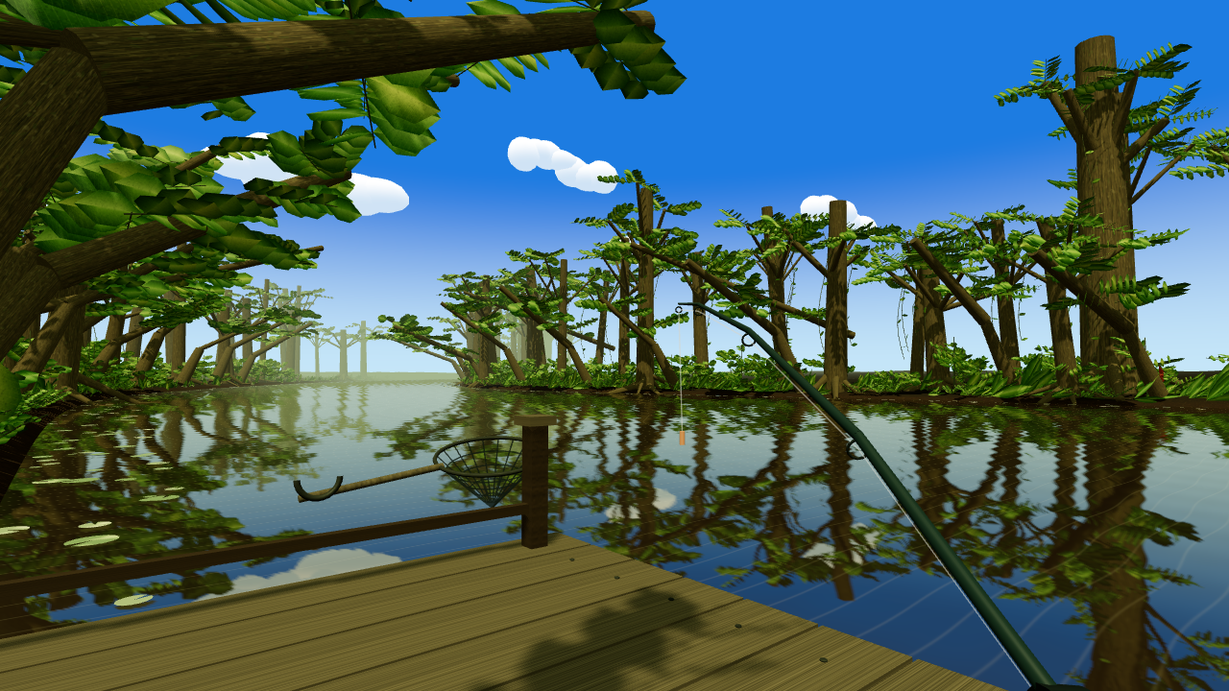
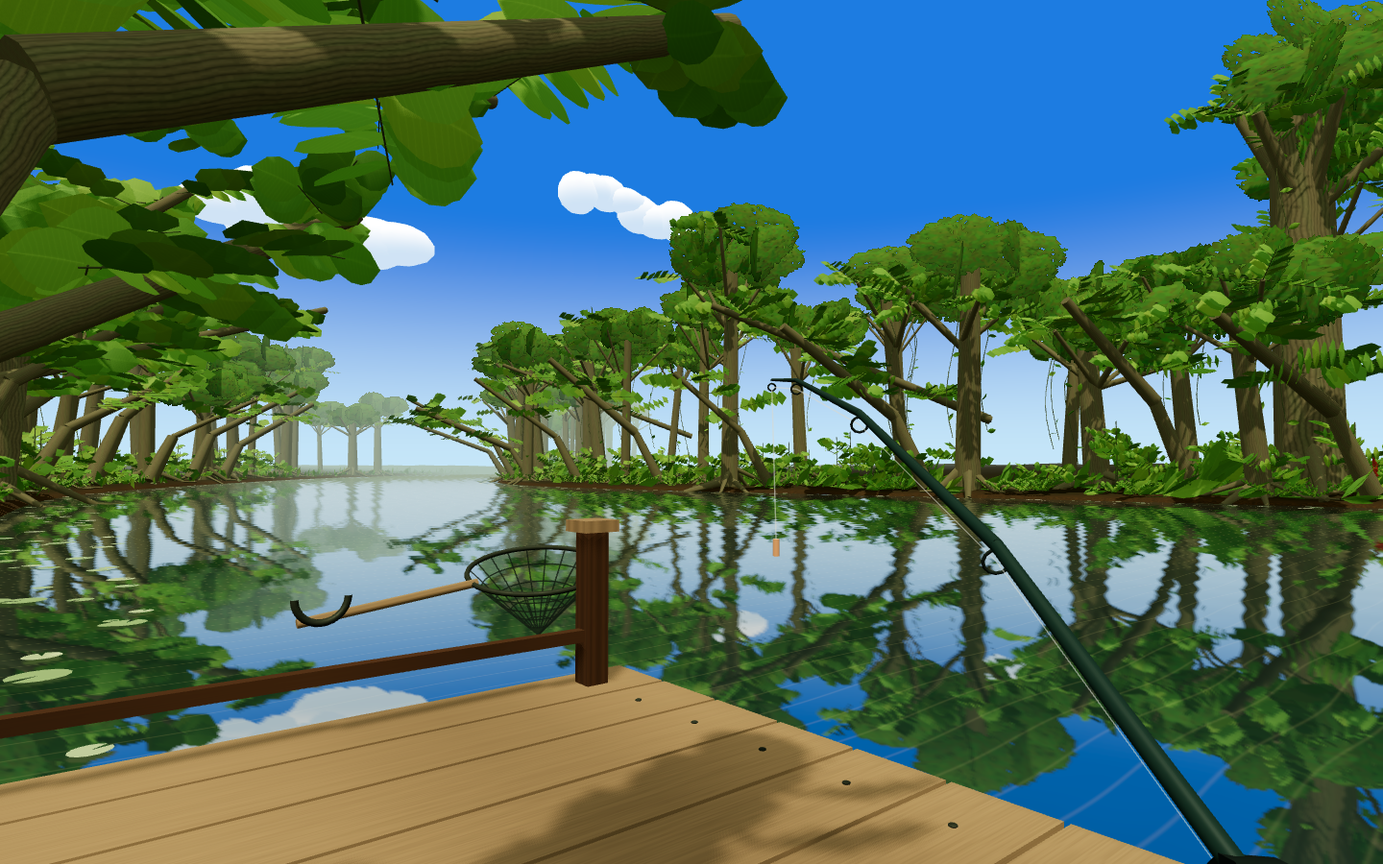
Add Amazon high-quality pilot and persistent desktop frame caps

diff --git a/amazon-scene.js b/amazon-scene.js
@@ -1,10 +1,11 @@
+import {createAmazonQuality} from './amazon-quality.js';
 import * as THREE from './vendor/three.module.js';
 import {AMAZON_CONFLUENCE,riverBank,riverCenter,riverBankOffset,riverHalfWidth,amazonWaterMaxZ} from './maps/amazon-confluence.js';
 import {createResourceScope} from './scene-resources.js';
 
 // Real geometry at meter scale; the reference image is never used as a scene backdrop.
 export function createMap(parent,camera,renderer,config=AMAZON_CONFLUENCE,{sharedResources=new Set()}={}){
-  const root=new THREE.Group();root.name='map-'+config.id;parent.add(root);
+  const root=new THREE.Group();root.name='map-'+config.id;root.userData.stationX=config.spawn.position[0];parent.add(root);
   const previous={background:parent.background,fog:parent.fog,exposure:renderer.toneMappingExposure,auto:renderer.shadowMap.autoUpdate,dirty:renderer.shadowMap.needsUpdate};
   const targets=[];
   try{
@@ -19,7 +20,7 @@ export function createMap(parent,camera,renderer,config=AMAZON_CONFLUENCE,{share
     parent.background=background;parent.fog=fog;renderer.toneMappingExposure=config.environment.exposure;
     const hemi=new THREE.HemisphereLight('#e0edc9','#706246',2.3),sun=new THREE.DirectionalLight('#fff0ba',3.4);
     sun.position.set(-18,34,16);sun.target.position.set(0,0,0);sun.castShadow=true;sun.shadow.mapSize.set(2048,2048);
-    Object.assign(sun.shadow.camera,{left:-46,right:46,top:45,bottom:-45,near:1,far:110});sun.shadow.bias=-.00025;sun.shadow.normalBias=.035;root.add(hemi,sun,sun.target,new THREE.AmbientLight('#a1b27e',.55));
+    Object.assign(sun.shadow.camera,{left:-46,right:46,top:45,bottom:-45,near:1,far:110});sun.shadow.bias=-.00025;sun.shadow.normalBias=.035;const ambient=new THREE.AmbientLight('#a1b27e',.55);root.add(hemi,sun,sun.target,ambient);
     renderer.shadowMap.autoUpdate=false;renderer.shadowMap.needsUpdate=true;
     function texture(paint,w=512,h=512,repeat=[1,1]){
       const canvas=document.createElement('canvas');canvas.width=w;canvas.height=h;paint(canvas.getContext('2d'),w,h);
@@ -57,7 +58,7 @@ export function createMap(parent,camera,renderer,config=AMAZON_CONFLUENCE,{share
     function mesh(geo,mat,p,s,parentNode=root){const m=new THREE.Mesh(geo,mat);if(p)m.position.set(...p);if(s)m.scale.set(...s);m.castShadow=m.receiveShadow=true;parentNode.add(m);return m;}
     const cube=new THREE.BoxGeometry(1,1,1),cylinder=new THREE.CylinderGeometry(1,1,1,10),sphere=new THREE.SphereGeometry(1,10,7);
     const pools=[];
-    function pool(geo,mat,shadow=true,parentNode=root){const entries=[];const result={add(p,s,r=null,tint=null){entries.push({p,s,r,tint});},finish(){if(!entries.length)return;const inst=new THREE.InstancedMesh(geo,mat,entries.length);for(let i=0;i<entries.length;i++){const e=entries[i];dummy.position.set(...e.p);dummy.scale.set(...e.s);dummy.rotation.set(0,0,0);if(e.r?.isQuaternion)dummy.quaternion.copy(e.r);else if(e.r)dummy.rotation.set(...e.r);dummy.updateMatrix();inst.setMatrixAt(i,dummy.matrix);if(e.tint)inst.setColorAt(i,color.set(e.tint));}inst.castShadow=shadow;inst.receiveShadow=true;inst.computeBoundingSphere();parentNode.add(inst);}};pools.push(result);return result;}
+    function pool(geo,mat,shadow=true,parentNode=root){const entries=[];const result={add(p,s,r=null,tint=null){entries.push({p,s,r,tint});},finish(){if(!entries.length)return;const inst=new THREE.InstancedMesh(geo,mat,entries.length);for(let i=0;i<entries.length;i++){const e=entries[i];dummy.position.set(...e.p);dummy.scale.set(...e.s);dummy.rotation.set(0,0,0);if(e.r?.isQuaternion)dummy.quaternion.copy(e.r);else if(e.r)dummy.rotation.set(...e.r);dummy.updateMatrix();inst.setMatrixAt(i,dummy.matrix);if(e.tint)inst.setColorAt(i,color.set(e.tint));}inst.castShadow=shadow;inst.receiveShadow=true;inst.computeBoundingSphere();parentNode.add(inst);result.mesh=inst;}};pools.push(result);return result;}
     const trunks=pool(new THREE.CylinderGeometry(.68,1,1,12,3),barkMat),roots=pool(new THREE.CylinderGeometry(.48,1,1,8,2),barkMat),vines=pool(new THREE.CylinderGeometry(.7,1,1,5),standard('#4b5330'));
     function beam(target,a,b,radius,taper=1,tint=null){const from=new THREE.Vector3(...a),to=new THREE.Vector3(...b),delta=to.clone().sub(from);target.add(from.clone().add(to).multiplyScalar(.5).toArray(),[radius,delta.length(),radius*taper],new THREE.Quaternion().setFromUnitVectors(Y,delta.normalize()),tint);}
     function leafGeometry(rows=3){
@@ -193,14 +194,14 @@ export function createMap(parent,camera,renderer,config=AMAZON_CONFLUENCE,{share
     // River water reflects the actual current scene. Reflection resolution/frequency are bounded.
     const reflectionTarget=new THREE.WebGLRenderTarget(...config.quality.fine.reflection,{depthBuffer:true});targets.push(reflectionTarget);
     const reflectionCamera=new THREE.PerspectiveCamera(),reflectionMatrix=new THREE.Matrix4(),lookDirection=new THREE.Vector3(),lookTarget=new THREE.Vector3();
-    const uniforms={time:{value:0},mirrorMap:{value:reflectionTarget.texture},mirrorMatrix:{value:reflectionMatrix},sunDir:{value:sun.position.clone().normalize()}};
+    const highQuality={value:0};const uniforms={highQuality,time:{value:0},mirrorMap:{value:reflectionTarget.texture},mirrorMatrix:{value:reflectionMatrix},sunDir:{value:sun.position.clone().normalize()}};
     const waterGeo=new THREE.BufferGeometry(),wp=[],wi=[];
     for(let j=0;j<=waterSegments;j++){const z=config.water.minZ+(waterEnd-config.water.minZ)*j/waterSegments;wp.push(riverBank(z,-1,config.water),0,z,riverBank(z,1,config.water),0,z);if(j){const n=j*2;wi.push(n,n+1,n-2,n+1,n-1,n-2);}}
     waterGeo.setAttribute('position',new THREE.Float32BufferAttribute(wp,3));waterGeo.setIndex(wi);waterGeo.computeVertexNormals();
     const water=mesh(waterGeo,new THREE.ShaderMaterial({uniforms,side:THREE.DoubleSide,
       vertexShader:'varying vec3 vWorld;varying vec4 vMirror;uniform mat4 mirrorMatrix;void main(){vec4 w=modelMatrix*vec4(position,1.);vWorld=w.xyz;vMirror=mirrorMatrix*w;gl_Position=projectionMatrix*viewMatrix*w;}',
-      fragmentShader:`uniform float time;uniform sampler2D mirrorMap;uniform vec3 sunDir;varying vec3 vWorld;varying vec4 vMirror;
-      void main(){vec2 p=vWorld.xz;float t=time;vec3 eye=normalize(cameraPosition-vWorld);vec3 n=normalize(vec3((sin(p.x*5.2+p.y*.9+t*.52)+.32*cos(p.y*13.-t))* .010,1.,cos(p.y*8.-p.x*.5-t*.38)*.009));float f=.14+.68*pow(1.-max(dot(eye,n),0.),2.8);vec2 uv=vMirror.xy/vMirror.w*.5+.5+n.xz*.17;vec3 reflection=texture2D(mirrorMap,clamp(uv,.002,.998)).rgb*.5+texture2D(mirrorMap,clamp(uv+vec2(.0015,.001),.002,.998)).rgb*.25+texture2D(mirrorMap,clamp(uv-vec2(.0015,.001),.002,.998)).rgb*.25;vec3 c=mix(vec3(.047,.028,.009),reflection*vec3(.81,.83,.56),f);float fleck=pow(max(dot(reflect(-sunDir,n),eye),0.),180.);c+=vec3(.84,.68,.30)*fleck*.65;float thread=pow(max(0.,sin(p.y*17.+sin(p.x*2.)*.7-t*.52)),35.);c+=vec3(.025,.023,.009)*thread;float haze=smoothstep(45.,160.,distance(cameraPosition,vWorld));c=mix(c,vec3(.24,.30,.17),haze*.6);gl_FragColor=vec4(c,1.);
+      fragmentShader:`uniform float highQuality;uniform float time;uniform sampler2D mirrorMap;uniform vec3 sunDir;varying vec3 vWorld;varying vec4 vMirror;
+      void main(){vec2 p=vWorld.xz;float t=time;vec3 eye=normalize(cameraPosition-vWorld);vec3 n=normalize(vec3((sin(p.x*5.2+p.y*.9+t*.52)+.32*cos(p.y*13.-t))* .010,1.,cos(p.y*8.-p.x*.5-t*.38)*.009));n=normalize(mix(n,vec3(0.,1.,0.),highQuality*.35));float f=mix(.14,.22,highQuality)+.68*pow(1.-max(dot(eye,n),0.),2.8);vec2 uv=vMirror.xy/vMirror.w*.5+.5+n.xz*.17;vec3 reflection=texture2D(mirrorMap,clamp(uv,.002,.998)).rgb*.5+texture2D(mirrorMap,clamp(uv+vec2(.0015,.001),.002,.998)).rgb*.25+texture2D(mirrorMap,clamp(uv-vec2(.0015,.001),.002,.998)).rgb*.25;vec3 c=mix(mix(vec3(.047,.028,.009),vec3(.025,.055,.042),highQuality),reflection*mix(vec3(.81,.83,.56),vec3(.91,.98,.95),highQuality),f);float fleck=pow(max(dot(reflect(-sunDir,n),eye),0.),180.);c+=vec3(.84,.68,.30)*fleck*.65;float thread=pow(max(0.,sin(p.y*17.+sin(p.x*2.)*.7-t*.52)),35.);c+=vec3(.025,.023,.009)*thread;float haze=smoothstep(45.,160.,distance(cameraPosition,vWorld));c=mix(c,vec3(.24,.30,.17),haze*.6);gl_FragColor=vec4(c,1.);
       #include <tonemapping_fragment>
       #include <colorspace_fragment>
       }`}),[0,config.water.level,0]);water.castShadow=water.receiveShadow=false;
@@ -220,10 +221,11 @@ export function createMap(parent,camera,renderer,config=AMAZON_CONFLUENCE,{share
       for(let i=0;i<12;i++)tree(THREE.MathUtils.lerp(config.water.basin.leftX,config.water.basin.rightX,(i+.5)/12),waterEnd+3,range(10,15),.5,true);
     }
     pools.forEach(p=>p.finish());
+    const presentation=createAmazonQuality({root,renderer,camera,treeRecords,pools:{leaves,smallLeaves,trunks,roots,vines,pebbles},barkMat,woodMat,darkWood,soil,leafMat,hemi,sun,ambient,fog,waterUniform:highQuality});presentation.setQuality(true);
     const resources=createResourceScope(root,{targets,shared:sharedResources});
     return {
       update(elapsed){if(resources.disposed)return;wind.value=elapsed;uniforms.time.value=elapsed;},
-      setQuality(fine){if(!resources.disposed)reflectionTarget.setSize(...config.quality[fine?'fine':'fast'].reflection);},
+      setQuality(fine){if(!resources.disposed){presentation.setQuality(fine);reflectionTarget.setSize(...config.quality.fine.reflection);}},
       renderReflection({frame,fine,force=false,before=()=>{},after=()=>{}}){
         if(resources.disposed||(!force&&frame%config.quality[fine?'fine':'fast'].reflectionEvery!==0))return;
         reflectionCamera.copy(camera,false);reflectionCamera.position.y=2*config.water.level-camera.position.y;camera.getWorldDirection(lookDirection);lookTarget.copy(camera.position).add(lookDirection);lookTarget.y=2*config.water.level-lookTarget.y;reflectionCamera.up.set(0,-1,0);reflectionCamera.lookAt(lookTarget);reflectionCamera.updateMatrixWorld();reflectionMatrix.multiplyMatrices(reflectionCamera.projectionMatrix,reflectionCamera.matrixWorldInverse);
@@ -231,7 +233,7 @@ export function createMap(parent,camera,renderer,config=AMAZON_CONFLUENCE,{share
         try{water.visible=false;before();renderer.setRenderTarget(reflectionTarget);renderer.render(parent,reflectionCamera);}
         finally{renderer.setRenderTarget(target);water.visible=visible;after();}
       },
-      getDiagnostics:()=>({disposed:resources.disposed,treeCount:treeRecords.length,chairs:[],objects:root.children.length,reflectionSize:[reflectionTarget.width,reflectionTarget.height],platformShift,platformBounds:{...config.water.platform},riverWidthAtSpawn:2*riverHalfWidth(config.spawn.position[2],config.water),basin:config.water.basin?{...config.water.basin,width:config.water.basin.rightX-config.water.basin.leftX}:null,waterMeshCount:1,reflectionTargetCount:targets.length,waterSegments,waterEnd,landmarks:['wood-platform','tackle-seat','wood-shelf','lantern','landing-net','buttress-roots','hanging-vines',...(config.water.basin?['right-water-basin']:[])]}),
+      getDiagnostics:()=>({disposed:resources.disposed,presentation:presentation.snapshot(),treeCount:treeRecords.length,chairs:[],objects:root.children.length,reflectionSize:[reflectionTarget.width,reflectionTarget.height],platformShift,platformBounds:{...config.water.platform},riverWidthAtSpawn:2*riverHalfWidth(config.spawn.position[2],config.water),basin:config.water.basin?{...config.water.basin,width:config.water.basin.rightX-config.water.basin.leftX}:null,waterMeshCount:1,reflectionTargetCount:targets.length,waterSegments,waterEnd,landmarks:['wood-platform','tackle-seat','wood-shelf','lantern','landing-net','buttress-roots','hanging-vines',...(config.water.basin?['right-water-basin']:[])]}),
       dispose(){if(resources.disposed)return;resources.dispose();if(parent.background===background)parent.background=previous.background;if(parent.fog===fog)parent.fog=previous.fog;renderer.toneMappingExposure=previous.exposure;renderer.shadowMap.autoUpdate=previous.auto;renderer.shadowMap.needsUpdate=previous.dirty;}
     };
   }catch(error){createResourceScope(root,{targets,shared:sharedResources}).dispose();parent.background=previous.background;parent.fog=previous.fog;renderer.toneMappingExposure=previous.exposure;renderer.shadowMap.autoUpdate=previous.auto;renderer.shadowMap.needsUpdate=previous.dirty;throw error;}

diff --git a/amazon-quality.js b/amazon-quality.js
@@ -1,0 +1,59 @@
+import * as THREE from './vendor/three.module.js';
+
+// Shared small procedural PBR textures; no network assets or gameplay RNG.
+function surfaceTexture(kind,w,h){
+ const height=new Float32Array(w*h),pixels=new Uint8Array(w*h*4),normal=new Uint8Array(w*h*4);
+ const noise=(x,y)=>{let a=Math.imul(x+31,374761393)^Math.imul(y+17,668265263);a=Math.imul(a^(a>>>13),1274126177);return ((a^(a>>>16))>>>0)/4294967295;};
+ for(let y=0;y<h;y++)for(let x=0;x<w;x++){
+  const u=x/w,v=y/h,n=noise(x,y),coarse=noise(x>>3,y>>3);let a,rgb;
+  if(kind==='leaf'){const vein=Math.exp(-Math.abs(u-.5)*100),ribs=Math.pow(Math.max(0,Math.cos(v*95+Math.abs(u-.5)*20)),12);a=.52+vein*.3+ribs*.1+n*.05;rgb=[86+a*66,119+a*66,47+a*45];}
+  else if(kind==='wood'){const grain=Math.sin(u*21+Math.sin(v*150)*.12+Math.sin(u*6)*2);a=.45+grain*.17+coarse*.17+n*.06;rgb=[99+a*59,78+a*49,53+a*36];}
+  else if(kind==='bark'){const furrow=Math.pow(Math.abs(Math.sin(u*57+Math.sin(v*19)*.9+Math.sin(v*71)*.12)),.35);a=.12+furrow*.65+coarse*.13+n*.08;const moss=Math.max(0,Math.sin(u*22+v*7))*.15;rgb=[46+a*64-moss*10,44+a*57+moss*25,29+a*42];}
+  else{a=.15+coarse*.55+n*.3;rgb=[68+a*55,64+a*39,38+a*31];}
+  const i=y*w+x,k=i*4;height[i]=a;pixels[k]=rgb[0];pixels[k+1]=rgb[1];pixels[k+2]=rgb[2];pixels[k+3]=255;
+ }
+ for(let y=0;y<h;y++)for(let x=0;x<w;x++){const i=y*w+x,k=i*4,dx=height[y*w+(x+1)%w]-height[y*w+(x+w-1)%w],dy=height[((y+1)%h)*w+x]-height[((y+h-1)%h)*w+x],l=Math.hypot(dx*1.8,dy*1.8,1);normal[k]=128-dx*1.8/l*127;normal[k+1]=128-dy*1.8/l*127;normal[k+2]=128+127/l;normal[k+3]=255;}
+ const make=(data,color)=>{const t=new THREE.DataTexture(data,w,h);t.wrapS=t.wrapT=THREE.RepeatWrapping;t.magFilter=THREE.LinearFilter;t.minFilter=THREE.LinearMipmapLinearFilter;t.generateMipmaps=true;t.colorSpace=color?THREE.SRGBColorSpace:THREE.NoColorSpace;t.needsUpdate=true;return t;};
+ return {map:make(pixels,true),normalMap:make(normal,false)};
+}
+
+export function createAmazonQuality({root,renderer,camera,pools,treeRecords,barkMat,woodMat,darkWood,soil,leafMat,hemi,sun,ambient,fog,waterUniform}){
+ const textures={bark:surfaceTexture('bark',512,512),wood:surfaceTexture('wood',512,512),ground:surfaceTexture('ground',512,512),leaf:surfaceTexture('leaf',128,256)};
+ textures.bark.map.repeat.set(2,3);textures.bark.normalMap.repeat.set(2,3);
+ const materialPairs=new Map();
+ function material(low,kind){const high=low.clone();high.onBeforeCompile=low.onBeforeCompile;high.map=textures[kind].map;high.normalMap=textures[kind].normalMap;high.bumpMap=null;high.normalScale.setScalar(kind==='leaf'?.18:.36);high.color.set(kind==='ground'?'#d5c8ae':'#ffffff');if(kind==='leaf'){high.emissiveMap=high.map;high.emissive.set('#567449');high.emissiveIntensity=.08;high.roughness=.72;}materialPairs.set(low,high);return high;}
+ material(barkMat,'bark');material(woodMat,'wood');const dark=material(darkWood,'wood');dark.color.set('#8e7860');material(soil,'ground');material(leafMat,'leaf');
+ const bindings=[];root.traverse(o=>{if(o.isMesh&&materialPairs.has(o.material))bindings.push({mesh:o,low:o.material,high:materialPairs.get(o.material)});});
+ const highRoot=new THREE.Group();highRoot.name='amazon-high-quality';root.add(highRoot);const legacy=[],chunks=[],geometryCache=new Map();
+ const station={x:root.userData.stationX,z:28};
+ function foliageGeometry(original,level){const key=original.uuid+':'+level;if(geometryCache.has(key))return geometryCache.get(key);if(level===2){const g=new THREE.BufferGeometry();g.setAttribute('position',new THREE.Float32BufferAttribute([0,0,0,-.5,.5,0,0,1,.035,.5,.5,0],3));g.setAttribute('uv',new THREE.Float32BufferAttribute([.5,1,0,.5,.5,0,1,.5],2));g.setIndex([0,1,2,0,2,3]);g.computeVertexNormals();geometryCache.set(key,g);return g;}const rows=level===0?5:3,pos=[],uv=[],indices=[];
+  for(let j=0;j<=rows;j++)for(let i=0;i<3;i++){const t=j/rows,u=i/2,x=(u-.5)*Math.pow(Math.sin(Math.PI*t),.62);pos.push(x,t,Math.sin(t*Math.PI)*.11-Math.abs(x)*.16);uv.push(u,1-t);if(i&&j){const n=j*3+i;indices.push(n,n-1,n-3,n-1,n-4,n-3);}}
+  const g=new THREE.BufferGeometry();g.setAttribute('position',new THREE.Float32BufferAttribute(pos,3));g.setAttribute('uv',new THREE.Float32BufferAttribute(uv,2));g.setIndex(indices);g.computeVertexNormals();geometryCache.set(key,g);return g;
+ }
+ const matrix=new THREE.Matrix4(),position=new THREE.Vector3(),rotation=new THREE.Quaternion(),scale=new THREE.Vector3(),tint=new THREE.Color();
+ for(const [kind,pool]of Object.entries(pools)){
+  const old=pool.mesh;if(!old)continue;legacy.push(old);const groups=new Map(),leaf=kind==='leaves'||kind==='smallLeaves';
+  for(let i=0;i<old.count;i++){old.getMatrixAt(i,matrix);matrix.decompose(position,rotation,scale);const d=Math.hypot(position.x-station.x,position.z-station.z),level=d<18?0:d<55?1:2;
+   // Keep all near silhouettes, thin only small distant decoration deterministically.
+   if(leaf&&level===2&&i%2===0)continue;
+   const cell=level===0?40:level===1?80:160,key=Math.floor(position.x/cell)+':'+Math.floor(position.z/cell)+':'+level;
+   if(!groups.has(key))groups.set(key,{level,entries:[]});if(leaf){scale.x*=level===0?1.36:1.22;scale.y*=1.10;matrix.compose(position,rotation,scale);}const c=old.instanceColor?(old.getColorAt(i,tint),tint.clone()):null;groups.get(key).entries.push({matrix:matrix.clone(),color:c});
+  }
+  for(const {level,entries}of groups.values()){
+   const key=kind+':'+level;let geo=old.geometry;if(leaf)geo=foliageGeometry(old.geometry,level);else if(level>0){if(!geometryCache.has(key)){const p=old.geometry.parameters;geometryCache.set(key,p.radiusTop!==undefined?new THREE.CylinderGeometry(p.radiusTop,p.radiusBottom,1,level===1?6:4,1):new THREE.IcosahedronGeometry(1,0));}geo=geometryCache.get(key);}const inst=new THREE.InstancedMesh(geo,materialPairs.get(old.material)??old.material,entries.length);inst.name='amazon-'+kind+'-lod'+level;entries.forEach((e,i)=>{inst.setMatrixAt(i,e.matrix);if(e.color)inst.setColorAt(i,e.color);});inst.castShadow=old.castShadow&&level<2;inst.receiveShadow=true;inst.computeBoundingSphere();highRoot.add(inst);chunks.push(inst);
+  }
+ }
+ // Leafy crown cards fill exposed branch tips using a single alpha-tested atlas and few quads.
+ const canvas=document.createElement('canvas');canvas.width=canvas.height=256;const ctx=canvas.getContext('2d');
+ let seed=41713;const rand=()=>{seed=(Math.imul(seed,1664525)+1013904223)>>>0;return seed/4294967296;};
+ for(let i=0;i<720;i++){const a=rand()*Math.PI*2,r=Math.sqrt(rand()),x=128+Math.cos(a)*r*115,y=128+Math.sin(a)*r*96;const light=1-y/256;ctx.fillStyle=`rgb(${Math.floor(38+light*48+rand()*25)},${Math.floor(68+light*55+rand()*25)},${Math.floor(24+light*19)})`;ctx.beginPath();ctx.ellipse(x,y,4+rand()*10,2+rand()*5,rand()*6.28,0,Math.PI*2);ctx.fill();}
+ const crownMap=new THREE.CanvasTexture(canvas);crownMap.colorSpace=THREE.SRGBColorSpace;
+ const crownMat=new THREE.MeshStandardMaterial({map:crownMap,alphaTest:.45,side:THREE.DoubleSide,roughness:.85,emissive:'#304620',emissiveMap:crownMap,emissiveIntensity:.22});
+ const cards=[];for(const t of treeRecords)for(let j=0;j<4;j++){const angle=j*2.4+rand(),r=1.3+rand()*2.2;for(let k=0;k<3;k++){const o=new THREE.Object3D();o.position.set(t.x+Math.cos(angle)*r,t.h*(.88+rand()*.13),t.z+Math.sin(angle)*r);o.rotation.set(rand()*.25,k*Math.PI/3+angle,rand()*.3-.15);o.scale.set(5+rand()*3,3+rand()*2,1);o.updateMatrix();cards.push(o.matrix.clone());}}
+ const crowns=new THREE.InstancedMesh(new THREE.PlaneGeometry(1,1),crownMat,cards.length);cards.forEach((m,i)=>crowns.setMatrixAt(i,m));crowns.name='amazon-leafy-crowns';crowns.castShadow=false;crowns.receiveShadow=true;crowns.computeBoundingSphere();highRoot.add(crowns);
+ let high=true;
+ function setQuality(value){high=!!value;highRoot.visible=high;legacy.forEach(o=>o.visible=!high);bindings.forEach(b=>{b.mesh.material=high?b.high:b.low;});hemi.intensity=high?2.6:2.3;sun.intensity=high?2.8:3.4;ambient.intensity=high?.72:.55;hemi.color.set(high?'#e4f0e6':'#e0edc9');hemi.groundColor.set(high?'#625e48':'#706246');sun.color.set(high?'#fff2d3':'#fff0ba');fog.color.set(high?'#b0c4b8':'#a5b78f');fog.near=high?65:55;fog.far=high?195:170;renderer.toneMappingExposure=high?1.02:.94;waterUniform.value=high?1:0;renderer.shadowMap.needsUpdate=true;}
+ // Both material alternatives stay owned by the one root, even when detached from visible meshes.
+ const assets=new THREE.Mesh(new THREE.BufferGeometry(),[...materialPairs.keys(),...materialPairs.values()]);assets.name='amazon-quality-resources';assets.visible=false;root.add(assets);
+ return {setQuality,snapshot:()=>({quality:high?'high':'low',chunkCount:chunks.length,lodLevels:3})};
+}

diff --git a/main.js b/main.js
@@ -1,3 +1,4 @@
+import {createRenderSettings,nextFrameTime} from './render-settings.js';
 import {mapUnlocked} from './shop-progression.js';
 import {createMapEntry} from './map-entry.js';
 import {createShop} from './shop.js';
@@ -29,10 +30,11 @@ if(!releaseVersion()){
   throw new Error('页面入口已更新，请点击重新加载以获取最新版本。');
 }
 
+const renderSettings=createRenderSettings();
 const canvas=document.querySelector('#scene');
 const renderer=new THREE.WebGLRenderer({canvas,antialias:true,powerPreference:'high-performance'});
 let adaptiveScale=1;
-function applyResolution(){renderer.setPixelRatio(Math.min(devicePixelRatio,fine?1.4:1)*adaptiveScale);renderer.setSize(innerWidth,innerHeight);sceneDirty=true;}
+function applyResolution(){renderer.setPixelRatio(Math.min(devicePixelRatio,1.4)*adaptiveScale);renderer.setSize(innerWidth,innerHeight);sceneDirty=true;}
 renderer.setPixelRatio(Math.min(devicePixelRatio,1.4));renderer.setSize(innerWidth,innerHeight);
 renderer.outputColorSpace=THREE.SRGBColorSpace;renderer.toneMapping=THREE.ACESFilmicToneMapping;
 renderer.shadowMap.enabled=true;renderer.shadowMap.type=THREE.PCFShadowMap;
@@ -43,7 +45,7 @@ const encounters=()=>map?.context.encounters??getMapContext().encounters;
 const equipment=createIdleRod(camera),rod=equipment.root;
 
 let targetYaw=0,targetPitch=-.065,yaw=targetYaw,pitch=targetPitch,dragging=false,touchId=null;
-let lastX = 0, lastY = 0, fine = true, frame = 0, explored = false, contextLost = false;
+let lastX = 0, lastY = 0, fine = renderSettings.value.quality==='high', frame = 0, explored = false, contextLost = false;
 const keys = new Set(), toastElement = document.querySelector('#toast');
 let toastTimer;
 function toast(message) { toastElement.textContent = message; toastElement.classList.add('visible'); clearTimeout(toastTimer); toastTimer = setTimeout(() => toastElement.classList.remove('visible'), 2400); }
@@ -130,9 +132,12 @@ document.addEventListener('keydown',e=>{
 });
 document.querySelector('#reset').addEventListener('click',()=>{reset();setSettingsOpen(false);});
 document.querySelector('#quality').addEventListener('click', () => {
-  fine=!fine;adaptiveScale=1;applyResolution();renderer.shadowMap.enabled=fine;renderer.shadowMap.needsUpdate=true;map?.setQuality(fine);
-  document.querySelector('#quality span').textContent=`画质 · ${fine?'精细':'流畅'}`;toast(fine?'精细画质 · 树荫与池塘倒影已开启':'流畅画质 · 降低分辨率与反射更新频率');
+  fine=!fine;renderSettings.set({quality:fine?'high':'low'});adaptiveScale=1;applyResolution();renderer.shadowMap.enabled=true;renderer.shadowMap.needsUpdate=true;map?.setQuality(fine);
+  document.querySelector('#quality span').textContent=`画质 · ${fine?'高':'低'}`;toast(fine?'高画质已开启':'低画质已开启');
 });
+document.querySelector('#quality span').textContent=`画质 · ${fine?'高':'低'}`;
+const frameSelect=document.querySelector('#max-fps');frameSelect.value=String(renderSettings.value.maxFps);
+frameSelect.addEventListener('change',()=>{renderSettings.set({maxFps:Number(frameSelect.value)});TARGET_FPS=renderSettings.value.maxFps;frameSelect.value=String(TARGET_FPS);nextFrame=performance.now();sampleStart=nextFrame;sampleFrames=0;slowSamples=0;toast('最高帧率 · '+TARGET_FPS+'帧');});
 async function fullscreen() {
   setSettingsOpen(false);
   try { if (document.fullscreenElement) await document.exitFullscreen();else if(document.documentElement.requestFullscreen) await document.documentElement.requestFullscreen();else toast('当前预览不支持全屏，可在浏览器中打开游戏'); }
@@ -160,19 +165,19 @@ window.addEventListener('keyup',e=>keys.delete(e.code));
 window.addEventListener('resize',()=>{camera.aspect=innerWidth/innerHeight;camera.updateProjectionMatrix();applyResolution();});
 canvas.addEventListener('webglcontextlost',e=>{e.preventDefault();contextLost=true;window.showGameError('浏览器的 3D 渲染被中断，请关闭部分标签页后点击重新加载。');});
 
-// The requested 25 FPS cap keeps GPU demand stable; motion uses elapsed seconds.
-const TARGET_FPS=25,FRAME_MS=1000/TARGET_FPS;
+// The display cap is independent of elapsed-time fishing rules and reflection cadence.
+let TARGET_FPS=renderSettings.value.maxFps;
 const clock=new THREE.Timer();clock.connect(document);
 let elapsed=0,nextFrame=performance.now(),sampleStart=performance.now(),sampleFrames=0,measuredFps=0,slowSamples=0;
 function animate(now){
   if(contextLost)return;
   requestAnimationFrame(animate);
-  if(inWorld||!map){clock.update();sceneDirty=false;nextFrame=now+FRAME_MS;sampleStart=now;sampleFrames=0;return;}
-  if(document.hidden){nextFrame=now+FRAME_MS;sampleStart=now;sampleFrames=0;return;}
+  if(inWorld||!map){clock.update();sceneDirty=false;nextFrame=now+1000/TARGET_FPS;sampleStart=now;sampleFrames=0;return;}
+  if(document.hidden){nextFrame=now+1000/TARGET_FPS;sampleStart=now;sampleFrames=0;return;}
   // Keep the last canvas as a static backdrop; resize requests one fresh frame.
-  if(gameTime.paused&&!sceneDirty){clock.update();nextFrame=now+FRAME_MS;sampleStart=now;sampleFrames=0;return;}
+  if(gameTime.paused&&!sceneDirty){clock.update();nextFrame=now+1000/TARGET_FPS;sampleStart=now;sampleFrames=0;return;}
   if(now<nextFrame)return;
-  nextFrame+=FRAME_MS;if(nextFrame<=now)nextFrame=now+FRAME_MS;
+  nextFrame=nextFrameTime(now,nextFrame,TARGET_FPS);
   const refreshScene=sceneDirty;sceneDirty=false;
   clock.update();const dt=gameTime.paused?0:Math.min(clock.getDelta(),.12);elapsed+=dt;
   fishing.update(gameTime.now(now/1000));ownerPanel.update();const tracked=fishing.view();
@@ -185,7 +190,7 @@ function animate(now){
   fishing.updateDistanceLabel();
   rod.position.y=-.19+Math.sin(elapsed*1.1)*.004;rod.rotation.z=Math.sin(elapsed*.65)*.003;
   map.update(elapsed);
-  map.renderReflection({frame,fine,force:refreshScene,before:()=>{rod.visible=false;fishing.hideReflection();},after:()=>fishing.restoreReflection()});
+  map.renderReflection({frame,fine,time:elapsed,force:refreshScene,before:()=>{rod.visible=false;fishing.hideReflection();},after:()=>fishing.restoreReflection()});
   renderer.render(scene,camera);frame++;sampleFrames++;
   if(gameTime.paused){sampleStart=now;sampleFrames=0;return;}
   if(frame===3){sampleStart=performance.now();sampleFrames=0;}

diff --git a/index.html b/index.html
@@ -19,8 +19,8 @@
       <div class="top-right"><span class="version"><i></i> 钓鱼体验版 <b id="game-version">加载中</b></span><button id="help" class="icon-button" title="操作说明" aria-label="操作说明">?</button><div class="settings-buttons"><button id="settings-toggle" class="icon-button settings-toggle" title="展开设置" aria-label="展开设置" aria-expanded="false" aria-controls="settings-panel"><svg viewBox="0 0 24 24" aria-hidden="true"><path d="m9.4 3-.5 2-1.6.9-2-.6-2.6 4.4 1.5 1.5v1.8l-1.5 1.5 2.6 4.4 2-.6 1.6.9.5 2h5.2l.5-2 1.6-.9 2 .6 2.6-4.4-1.5-1.5v-1.8l1.5-1.5-2.6-4.4-2 .6-1.6-.9-.5-2Z"/><circle cx="12" cy="12" r="3"/></svg></button><button id="warehouse-toggle" class="icon-button warehouse-toggle" type="button" title="仓库 · 打开会清空鱼堆" aria-label="打开仓库，清空鱼堆" aria-haspopup="dialog" aria-controls="warehouse-dialog"><svg viewBox="0 0 24 24" aria-hidden="true"><path d="m3 7 9-4 9 4v13H3ZM3 7l9 4 9-4M12 11v9M7 5l9 4"/></svg></button><button id="shop-toggle" class="icon-button warehouse-toggle shop-toggle" type="button" title="starter's shop" aria-label="打开商店" aria-haspopup="dialog" aria-controls="shop-dialog"><svg viewBox="0 0 24 24" aria-hidden="true"><path d="M4 9h16v12H4ZM3 3h18l1 6H2ZM8 13h3v8M14 13h3v4h-3ZM7 3v6M12 3v6M17 3v6"/></svg></button></div></div>
       <section id="settings-panel" class="settings-panel" aria-label="场景设置与操作提示" hidden>
         <h2>湖边设置</h2>
-        <div class="controls"><span class="control"><kbd>空格</kbd> 抛竿 23 米</span><span class="control"><kbd>任意键</kbd> 咬钩后提竿</span><span class="control"><kbd>移动鼠标</kbd> 拉鱼时左右转竿</span><span class="control"><kbd>按住左键</kbd> 收线，松开停止</span><span class="control"><kbd>右键拖动 / 方向键</kbd> 空闲时环顾</span><span class="control"><kbd>R</kbd> 回正 <kbd>F</kbd> 全屏</span></div>
-        <div class="actions"><button id="reset" title="重置视角（R）"><svg viewBox="0 0 24 24" aria-hidden="true"><path d="M4 10a8 8 0 1 1 1 7M4 4v6h6"/></svg><span>回到钓位</span><kbd>R</kbd></button><button id="quality" title="切换画质"><svg viewBox="0 0 24 24" aria-hidden="true"><path d="m12 3 9 5-9 5-9-5 9-5Zm-9 9 9 5 9-5M3 16l9 5 9-5"/></svg><span>画质 · 精细</span></button><button id="fullscreen" title="全屏（F）"><svg viewBox="0 0 24 24" aria-hidden="true"><path d="M8 3H3v5m13-5h5v5M3 16v5h5m13-5v5h-5"/></svg><span>切换全屏</span><kbd>F</kbd></button></div>
+        <div class="controls"><span class="control"><kbd>空格</kbd> 抛竿 23 米</span><span class="control"><kbd>点击鱼竿</kbd> 选择咬钩的竿</span><span class="control"><kbd>移动鼠标</kbd> 拉鱼时左右转竿</span><span class="control"><kbd>按住左键</kbd> 收线，松开停止</span><span class="control"><kbd>右键拖动 / 方向键</kbd> 空闲时环顾</span><span class="control"><kbd>R</kbd> 回正 <kbd>F</kbd> 全屏</span></div>
+        <div class="actions"><button id="reset" title="重置视角（R）"><svg viewBox="0 0 24 24" aria-hidden="true"><path d="M4 10a8 8 0 1 1 1 7M4 4v6h6"/></svg><span>回到钓位</span><kbd>R</kbd></button><button id="quality" title="切换画质"><svg viewBox="0 0 24 24" aria-hidden="true"><path d="m12 3 9 5-9 5-9-5 9-5Zm-9 9 9 5 9-5M3 16l9 5 9-5"/></svg><span>画质 · 高</span></button><label class="frame-cap" for="max-fps">最高帧率 <select id="max-fps"><option value="25">25 帧</option><option value="50">50 帧</option><option value="100">100 帧</option></select></label><button id="fullscreen" title="全屏（F）"><svg viewBox="0 0 24 24" aria-hidden="true"><path d="M8 3H3v5m13-5h5v5M3 16v5h5m13-5v5h-5"/></svg><span>切换全屏</span><kbd>F</kbd></button></div>
         <div class="actions"><button id="fish-guide-toggle" type="button" aria-haspopup="dialog" aria-controls="fish-guide-dialog"><svg viewBox="0 0 24 24" aria-hidden="true"><path d="M12 5C8 2 4 3 2 4v15c4-2 7-1 10 1 3-2 6-3 10-1V4c-2-1-6-2-10 1Zm0 0v15"/></svg><span>鱼种图鉴</span></button></div>
         <div class="actions save-settings-actions"><button id="save-new" type="button" aria-haspopup="dialog" aria-controls="save-confirm-dialog"><span aria-hidden="true">＋</span><span>新存档</span></button><button id="save-select" type="button" aria-haspopup="dialog" aria-controls="save-select-dialog"><span aria-hidden="true">▤</span><span>选择存档</span></button></div><p id="save-current-label" class="save-current-label"></p>
         <p class="phase">对准鱼的方向，收线效率更高</p>

diff --git a/tests/render-settings.test.js b/tests/render-settings.test.js
@@ -1,0 +1,13 @@
+import test from 'node:test';
+import assert from 'node:assert/strict';
+import {createRenderSettings,RENDER_SETTINGS_KEY,nextFrameTime,createReflectionSchedule} from '../render-settings.js';
+test('render preferences default to high/25, persist independently of progress slots and tolerate unavailable storage',()=>{
+ const data=new Map([['fisher-realm-save-slots-v1','untouched-progress']]);const io={getItem:k=>data.get(k)??null,setItem:(k,v)=>data.set(k,v)};const s=createRenderSettings(io);assert.deepEqual(s.value,{quality:'high',maxFps:25});assert.equal(data.size,1);s.set({maxFps:100,quality:'low'});assert.deepEqual(createRenderSettings(io).value,{quality:'low',maxFps:100});assert.equal(data.get('fisher-realm-save-slots-v1'),'untouched-progress');data.set(RENDER_SETTINGS_KEY,'broken');assert.equal(createRenderSettings(io).value.maxFps,25);const blocked=createRenderSettings({getItem(){throw Error('denied');},setItem(){throw Error('quota');}});assert.equal(blocked.set({maxFps:50}),false);assert.equal(blocked.value.maxFps,50);
+});
+test('frame caps remain 25/50/100 and cannot exceed the browser refresh opportunities',()=>{
+ for(const cap of [25,50,100]){let next=0,count=0;for(let i=0;i<600;i++){const now=i*1000/60;if(now+1e-8<next)continue;count++;next=nextFrameTime(now,next,cap);}assert.ok(count<=Math.min(cap,60)*10+1);assert.ok(count>=Math.min(cap,60)*10-10);}
+ const s=createRenderSettings(null);s.set({maxFps:999,quality:'invalid'});assert.deepEqual(s.value,{quality:'high',maxFps:25});
+});
+test('25/50/100 frames all perform the same bounded reflection work; pause and forced refresh are handled',()=>{
+ for(const interval of [.08,.12,.16]){const counts=[];for(const cap of [25,50,100]){const r=createReflectionSchedule(interval);let n=0;for(let i=0;i<cap*12;i++)if(r.due(i/cap))n++;counts.push(n);assert.equal(r.due(12,true),true);assert.equal(r.due(12),false);assert.equal(r.due(1),true);}assert.deepEqual(counts,Array(3).fill(Math.ceil(12/interval)));}
+});

diff --git a/map-runtime.js b/map-runtime.js
@@ -1,3 +1,4 @@
+import {createReflectionSchedule} from './render-settings.js';
 import * as THREE from './vendor/three.module.js';
 import {getMapDefinition,getMapContext,DEFAULT_MAP_ID} from './map-registry.js';
 
@@ -6,9 +7,10 @@ export async function createMapRuntime({scene,camera,renderer,id=DEFAULT_MAP_ID,
   const definition=getMapDefinition(id),context=getMapContext(id);
   const {createMap}=await definition.load();
   const view=createMap(scene,camera,renderer,definition.config,{sharedResources});
+  const reflections=createReflectionSchedule((definition.config.quality.fine.reflectionEvery??3)/25);
   camera.position.set(...context.spawn.position);camera.rotation.set(context.spawn.pitch,context.spawn.yaw,0);
   return Object.freeze({context,playerPosition:new THREE.Vector3(...context.spawn.position),
-    update:elapsed=>view.update(elapsed),setQuality:fine=>view.setQuality(fine),
-    renderReflection:options=>view.renderReflection(options),
+    update:elapsed=>view.update(elapsed),setQuality:fine=>view.setQuality(id==='amazon-confluence'?fine:true),
+    renderReflection:options=>{if(Number.isFinite(options.time)){if(reflections.due(options.time,options.force))view.renderReflection({...options,fine:true,force:true});}else view.renderReflection(options);},
     getDiagnostics:()=>view.getDiagnostics(),dispose:()=>view.dispose()});
 }

diff --git a/style.css b/style.css
@@ -279,3 +279,5 @@ dialog:has(>.coin-balance){position:fixed;padding-top:53px}
 
 /* Three physical waiting rods and the water-point landing action. */
 .rod-slots{position:fixed;inset:0;pointer-events:none;z-index:8}.rod-slot,.net-spot{position:absolute;transform:translate(-50%,-50%);pointer-events:auto;border:1px solid #dce5c46b;border-radius:999px;background:#193c33b8;color:#eef1dc;box-shadow:0 2px 12px #102b3255;font:600 12px/1.3 system-ui;padding:7px 11px;white-space:nowrap;cursor:pointer;touch-action:none}.rod-slot.biting{background:#e4c971eb;color:#283b2b;border-color:#fff5b8;animation:rod-bite-glow .6s ease-in-out infinite alternate}.net-spot{width:88px;height:88px;border-radius:50%;background:#d7eddb20;border:2px solid #dcefd7bb;color:#f2f7e9;text-shadow:0 1px 3px #123b32;font-size:12px}.rod-slot[hidden],.net-spot[hidden]{display:none}.world-mode .rod-slots{display:none}@keyframes rod-bite-glow{to{box-shadow:0 0 18px #f8e9a7aa}}
+
+.frame-cap{display:flex;align-items:center;gap:10px;padding:7px 12px;font-size:12px;color:var(--cream)}.frame-cap select{font:inherit;color:inherit;background:#274c45;border:1px solid #e5eed14d;border-radius:7px;padding:6px 9px}.settings-panel .actions{flex-wrap:wrap}

diff --git a/render-settings.js b/render-settings.js
@@ -1,0 +1,12 @@
+export const RENDER_SETTINGS_KEY='fisher-realm-render-settings-v1';
+export const FRAME_CAPS=Object.freeze([25,50,100]);
+const clean=raw=>({quality:raw?.quality==='low'?'low':'high',maxFps:FRAME_CAPS.includes(raw?.maxFps)?raw.maxFps:25});
+// Device preferences are independent of all three progress slots.
+export function createRenderSettings(storage){
+ if(arguments.length===0)try{storage=globalThis.localStorage;}catch{storage=null;}
+ let value;try{value=clean(JSON.parse(storage?.getItem(RENDER_SETTINGS_KEY)??'null'));}catch{value=clean();}
+ return {get value(){return {...value};},set(patch){value=clean({...value,...patch});try{storage?.setItem(RENDER_SETTINGS_KEY,JSON.stringify(value));return true;}catch{return false;}}};
+}
+export function nextFrameTime(now,previous,maxFps){const next=previous+1000/maxFps;return next<=now?now+1000/maxFps:next;}
+// Reflection work is bounded in seconds, independent of the selected main-frame cap.
+export function createReflectionSchedule(interval=.12){let last=-Infinity;return {due(time,force=false){if(force||time<last||time-last>=interval-1e-8){last=time;return true;}return false;}};}

diff --git a/release-loader.js b/release-loader.js
@@ -14,6 +14,7 @@
     }finally{clearTimeout(timer);}
     if(typeof manifest.version!=='string'||!/^\d+\.\d+\.\d+(?:-[\da-z.-]+)?(?:\+[\da-z.-]+)?$/i.test(manifest.version))throw new Error('版本号无效。');
     const release=manifest.fisherRealm;
+    if(release?.modules?.includes('render-settings.js')&&!document.querySelector('#max-fps')){const next=new URL(location.href);if(next.searchParams.get('scene-ui')===manifest.version)throw new Error('页面仍是旧版本，请稍后重试。存档已保留。');next.searchParams.set('scene-ui',manifest.version);location.replace(next.href);return;}
     if(!release||!Array.isArray(release.modules)||!release.modules.includes('main.js')||!Array.isArray(release.styles)||!release.styles.length||!Array.isArray(release.preloadImages))throw new Error('版本资源清单无效。');
     const localPath=path=>{
       if(typeof path!=='string'||!path||path.startsWith('/')||path.includes('..')||/[\\:?#]/.test(path))throw new Error('资源路径无效。');

diff --git a/README.md b/README.md
@@ -385,3 +385,12 @@ V0.25.1：黄鲶与弓鳍鱼的背包图片使用预加载的无损 WebP，RGBA 
 ## 清晰可见的钓鱼水花（0.74.0）
 
 抛竿入水与点击咬钩竿提竿增加明亮、较宽的泡沫水波和向上飞溅的水滴，普通入水36滴、普通提竿48滴；拉鱼期间连续发出带水滴的小浪花，正常23米视角也可辨认。提竿按占格面积≥4、≥8，挣扎时按装备及特殊效果后的实际主动速度≥6、≥10米/秒，逐档增加覆盖范围、飞溅高度及数量；休息时沿用原触发条件及基础档。抄网等待/挣扎保留原来的小水波和气泡。所有效果复用固定24组水波和最多2304滴粒子的共享池，不逐帧创建网格或材质，离图完整释放。
+
+
+## 亚马逊高画质样板与帧率上限（0.75.0）
+
+仅电脑版：低画质保留0.74.0正常场景效果，高画质先用于亚马逊·河道交汇区，改善树冠、曲面树叶、木材/树皮/地面法线细节及水面色彩；其余三图暂沿用原外观。使用固定钓位距离分区、实例分组和简化远景；两档共用一张地图、一个水面和一个反射目标，可在钓鱼中切换，不重建地图或重置鱼竿。两档替代资源同时受单一资源域管理，离图统一释放。新版实际场景截图用于预览。
+
+设置中最高帧率提供25/50/100帧，所有电脑版地图通用，默认高画质、25帧。设备偏好独立保存在fisher-realm-render-settings-v1，不读写三个进度槽；帧率选项是上限，受设备性能及屏幕刷新率限制。钓鱼仍使用经过的真实秒数；反射按各地图原25帧下的时间间隔更新，选择100帧不会让反射开销变为四倍。旧HTML会重新请求新版入口，不清理存档。
+
+验证：434项规则/单元检查；tests/browser/amazon-quality.cjs验证两档、三档帧率、正在等待/拉鱼时切换、独立偏好保存、旧入口恢复、四图两轮释放；三竿抄网与收线输入回归。测试环境实测上限25/50/100约为25/50/60帧，100受该环境刷新率限制，不作为其他设备的性能保证。同一1440×900初始视角下高画质约47万三角形/102次绘制，原画面约91万/62次；新增分区和材质增加绘制调用，但减少无效几何，具体设备以实测为准。

diff --git a/AGENTS.md b/AGENTS.md
@@ -68,3 +68,6 @@
 - 拉鱼水波沿用原休息条件（休息且未收线不新发），挣扎时按装备和特殊效果后的主动速度>=6/>=10放大两档；选竿提鱼涌水按占格>=4/>=8放大两档。三竿/抄网/气泡/涌水共用单地图，固定网格/粒子池，离开释放3D和DOM；参考tests/browser/three-rods.cjs及three-rods-maps.cjs。历史鱼战斗测试使用tests/helpers/combat-session.js注入旧短等待时钟，只隔离等待参数，不修改鱼战斗属性；生产15–60/3.7及完整抄网由multi-rod.test.js覆盖。
 
 - 水花可见性（0.74.0）：入水36滴、提竿48滴，拉鱼连续18滴基础浪花；明亮泡沫和向上飞溅在正常23米视角可见。占格≥4/≥8与实际主动速度≥6/≥10沿用既有档位，扩大数量/范围/高度；休息触发规则不变。抄网使用独立net预设，保留原小水波和气泡，不继承增强的拉鱼水花。水花不得消耗游戏随机数或改变鱼池/战斗结果；固定24组水波及2304粒子共用一个Points，反射时隐藏，离图释放。专项tests/browser/visible-splashes.cjs比较旧版与新版正常钓鱼视角，并检查shader错误。
+
+- 0.75.0仅电脑版亚马逊河道交汇区为新高画质样板；低画质必须保留0.74.0正常画面（包含原阴影/分辨率/反射大小），其他地图外观暂不推广。高低切换不能重建地图、中断鱼竿或改存档。实例分组、固定钓位距离细节和树冠仅属视觉，不改河岸/水域判定/碰撞/鱼数据。程序化材质使用独立随机源，替代材质和纹理即使未显示也必须纳入资源域释放。
+- 最高帧率25/50/100电脑版全图通用，默认高画质25；独立设备设置键fisher-realm-render-settings-v1，不接入进度槽，读写失败不阻断游戏。反射按各地图原25帧下的时间间隔限频，不能随帧率上限成倍增加；钓鱼计时、输入和数值不随上限改变。新版入口缺少max-fps时须重新请求HTML且保留原存档。验收包括tests/browser/amazon-quality.cjs，样板经用户检查后再推广其他地图，手机版保持0.74.0直到另行授权。
